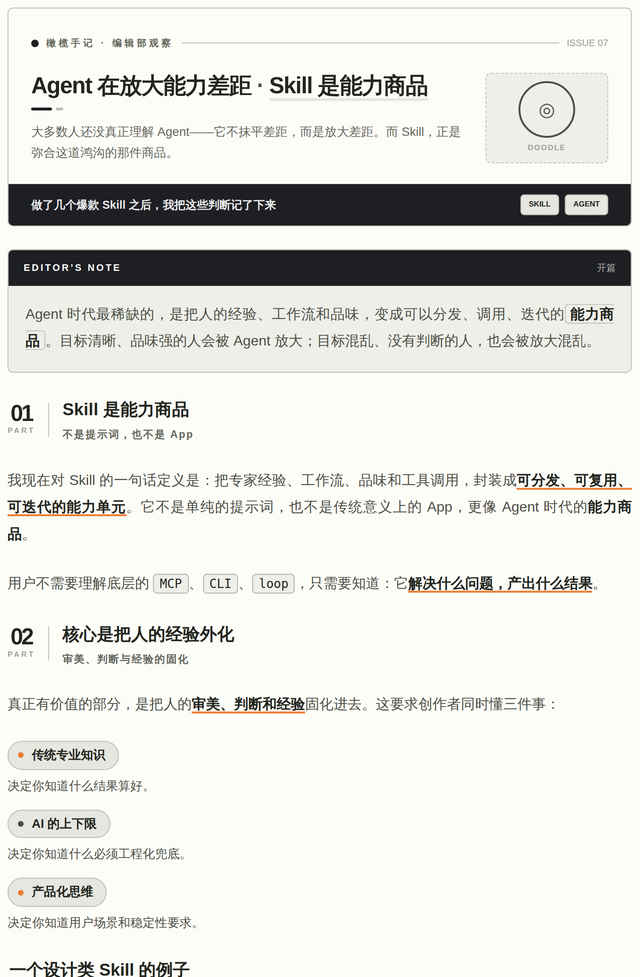
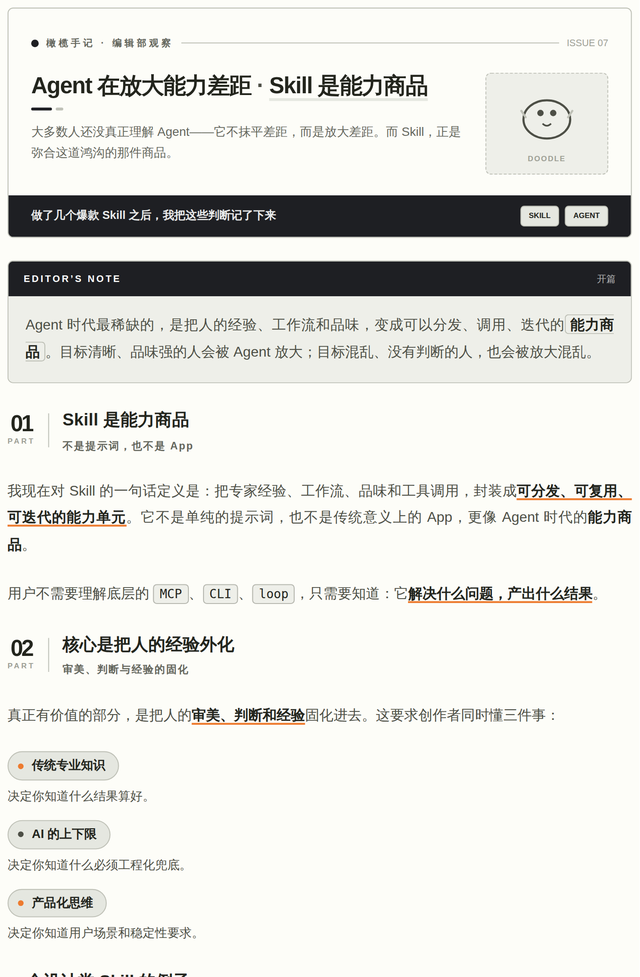
sync: gzh-skill-kit 自动镜像 cc296e8

Changed region(s): [[0.0, 0.0921, 1.0, 1.0], [0.0, 0.6448, 0.0625, 0.6755]]

diff --git a/gzh-skill-kit/docs/gallery/olive-journal.html b/gzh-skill-kit/docs/gallery/olive-journal.html
@@ -20,7 +20,13 @@
           <p style="font-size:13px;color:#65675e;margin:0;line-height:1.7;"><span leaf="">大多数人还没真正理解 Agent——它不抹平差距，而是放大差距。而 Skill，正是弥合这道鸿沟的那件商品。</span></p>
         </section>
         <section style="flex-shrink:0;width:112px;display:flex;flex-direction:column;align-items:center;justify-content:center;background:#eeefe9;border:1px dashed #bfc1b7;border-radius:6px;padding:8px;">
-          <section style="width:56px;height:56px;border:2px solid #4d4f46;border-radius:50%;margin:0 auto;display:flex;align-items:center;justify-content:center;"><span style="font-size:20px;line-height:1;color:#4d4f46;"><span leaf="">◎</span></span></section>
+          <svg width="72" height="72" viewBox="0 0 64 64" aria-hidden="true" style="display:block;">
+            <ellipse cx="32" cy="36" rx="22" ry="18" fill="none" stroke="#4d4f46" stroke-width="2"></ellipse>
+            <circle cx="26" cy="30" r="3" fill="#4d4f46"></circle>
+            <circle cx="38" cy="30" r="3" fill="#4d4f46"></circle>
+            <path d="M28 40 Q32 44 36 40" fill="none" stroke="#4d4f46" stroke-width="1.5"></path>
+            <path d="M12 34 L8 28 M52 34 L56 28" stroke="#bfc1b7" stroke-width="2" stroke-linecap="round"></path>
+          </svg>
           <span style="font-size:8px;font-weight:700;color:#9ea096;letter-spacing:1px;margin-top:4px;"><span leaf="">DOODLE</span></span>
         </section>
       </section>
@@ -280,19 +286,19 @@
       <section style="display:flex;justify-content:center;gap:18px;margin-bottom:14px;flex-wrap:wrap;">
         <section style="text-align:center;color:#4d4f46;">
           <section style="width:40px;height:40px;display:flex;align-items:center;justify-content:center;margin:0 auto 6px;background:#eeefe9;border-radius:6px;border:1px solid #bfc1b7;">
-            <span style="font-size:18px;line-height:1;"><span leaf="">👍</span></span>
+            <svg width="20" height="20" viewBox="0 0 24 24" fill="none" stroke="currentColor" stroke-width="1.8" aria-hidden="true"><path d="M14 9V5a3 3 0 0 0-3-3l-4 9v11h11.28a2 2 0 0 0 2-1.7l1.38-9a2 2 0 0 0-2-2.3zM7 22H4a2 2 0 0 1-2-2v-7a2 2 0 0 1 2-2h3"></path></svg>
           </section>
           <span style="font-size:11px;font-weight:600;"><span leaf="">赞</span></span>
         </section>
         <section style="text-align:center;color:#4d4f46;">
           <section style="width:40px;height:40px;display:flex;align-items:center;justify-content:center;margin:0 auto 6px;background:#eeefe9;border-radius:6px;border:1px solid #bfc1b7;">
-            <span style="font-size:18px;line-height:1;"><span leaf="">↗</span></span>
+            <svg width="20" height="20" viewBox="0 0 24 24" fill="none" stroke="currentColor" stroke-width="1.8" aria-hidden="true"><path d="M4 18v-4a8 8 0 0 1 8-8h8"></path><polyline points="16 2 20 6 16 10"></polyline></svg>
           </section>
           <span style="font-size:11px;font-weight:600;"><span leaf="">转发</span></span>
         </section>
         <section style="text-align:center;color:#23251d;">
           <section style="width:40px;height:40px;display:flex;align-items:center;justify-content:center;margin:0 auto 6px;background:#d4c9b8;border-radius:6px;border:1px solid #b17816;">
-            <span style="font-size:18px;line-height:1;"><span leaf="">★</span></span>
+            <svg width="20" height="20" viewBox="0 0 24 24" fill="none" stroke="#23251d" stroke-width="1.8" aria-hidden="true"><polygon points="12 2 15.09 8.26 22 9.27 17 14.14 18.18 21.02 12 17.77 5.82 21.02 7 14.14 2 9.27 8.91 8.26 12 2"></polygon></svg>
           </section>
           <span style="font-size:11px;font-weight:700;"><span leaf="">推荐</span></span>
         </section>

diff --git a/gzh-skill-kit/docs/gallery/moyu-green.html b/gzh-skill-kit/docs/gallery/moyu-green.html
@@ -268,19 +268,19 @@
       <section style="display:flex;justify-content:center;gap:24px;margin-bottom:16px;">
         <section style="text-align:center;cursor:pointer;color:#4B5563;">
           <section style="width:40px;height:40px;display:flex;align-items:center;justify-content:center;margin:0 auto 6px;background:#fff;border-radius:12px;box-shadow:0 2px 4px rgba(0,0,0,0.05);border:1px solid #F3F4F6;">
-            <span style="font-size:18px;line-height:1;"><span leaf="">👍</span></span>
+            <svg width="20" height="20" viewBox="0 0 24 24" fill="none" stroke="currentColor" stroke-width="1.8"><path d="M14 9V5a3 3 0 0 0-3-3l-4 9v11h11.28a2 2 0 0 0 2-1.7l1.38-9a2 2 0 0 0-2-2.3zM7 22H4a2 2 0 0 1-2-2v-7a2 2 0 0 1 2-2h3"></path></svg>
           </section>
           <span style="font-size:10px;font-weight:600;"><span leaf="">点赞</span></span>
         </section>
         <section style="text-align:center;cursor:pointer;color:#4B5563;">
           <section style="width:40px;height:40px;display:flex;align-items:center;justify-content:center;margin:0 auto 6px;background:#fff;border-radius:12px;box-shadow:0 2px 4px rgba(0,0,0,0.05);border:1px solid #F3F4F6;">
-            <span style="font-size:18px;line-height:1;"><span leaf="">↗</span></span>
+            <svg width="20" height="20" viewBox="0 0 24 24" fill="none" stroke="currentColor" stroke-width="1.8" stroke-linecap="round" stroke-linejoin="round"><path d="M4 18v-4a8 8 0 0 1 8-8h8"></path><polyline points="16 2 20 6 16 10"></polyline></svg>
           </section>
           <span style="font-size:10px;font-weight:600;"><span leaf="">转发</span></span>
         </section>
         <section style="text-align:center;cursor:pointer;color:#059669;">
           <section style="width:40px;height:40px;display:flex;align-items:center;justify-content:center;margin:0 auto 6px;background:#ECFDF5;border-radius:12px;box-shadow:0 2px 4px rgba(5,150,105,0.15);border:1px solid #A7F3D0;">
-            <span style="font-size:18px;line-height:1;"><span leaf="">★</span></span>
+            <svg width="20" height="20" viewBox="0 0 24 24" fill="none" stroke="currentColor" stroke-width="1.8"><polygon points="12 2 15.09 8.26 22 9.27 17 14.14 18.18 21.02 12 17.77 5.82 21.02 7 14.14 2 9.27 8.91 8.26 12 2"></polygon></svg>
           </section>
           <span style="font-size:10px;font-weight:600;"><span leaf="">推荐</span></span>
         </section>

diff --git a/gzh-skill-kit/docs/gallery/tech-cobalt.html b/gzh-skill-kit/docs/gallery/tech-cobalt.html
@@ -268,19 +268,19 @@
       <section style="display:flex;justify-content:center;gap:24px;margin-bottom:16px;">
         <section style="text-align:center;cursor:pointer;color:#4B5563;">
           <section style="width:40px;height:40px;display:flex;align-items:center;justify-content:center;margin:0 auto 6px;background:#fff;border-radius:12px;box-shadow:0 2px 4px rgba(0,0,0,0.05);border:1px solid #F3F4F6;">
-            <span style="font-size:18px;line-height:1;"><span leaf="">👍</span></span>
+            <svg width="20" height="20" viewBox="0 0 24 24" fill="none" stroke="currentColor" stroke-width="1.8"><path d="M14 9V5a3 3 0 0 0-3-3l-4 9v11h11.28a2 2 0 0 0 2-1.7l1.38-9a2 2 0 0 0-2-2.3zM7 22H4a2 2 0 0 1-2-2v-7a2 2 0 0 1 2-2h3"></path></svg>
           </section>
           <span style="font-size:10px;font-weight:600;"><span leaf="">点赞</span></span>
         </section>
         <section style="text-align:center;cursor:pointer;color:#4B5563;">
           <section style="width:40px;height:40px;display:flex;align-items:center;justify-content:center;margin:0 auto 6px;background:#fff;border-radius:12px;box-shadow:0 2px 4px rgba(0,0,0,0.05);border:1px solid #F3F4F6;">
-            <span style="font-size:18px;line-height:1;"><span leaf="">↗</span></span>
+            <svg width="20" height="20" viewBox="0 0 24 24" fill="none" stroke="currentColor" stroke-width="1.8" stroke-linecap="round" stroke-linejoin="round"><path d="M4 18v-4a8 8 0 0 1 8-8h8"></path><polyline points="16 2 20 6 16 10"></polyline></svg>
           </section>
           <span style="font-size:10px;font-weight:600;"><span leaf="">转发</span></span>
         </section>
         <section style="text-align:center;cursor:pointer;color:#1D4ED8;">
           <section style="width:40px;height:40px;display:flex;align-items:center;justify-content:center;margin:0 auto 6px;background:#EFF6FF;border-radius:12px;box-shadow:0 2px 4px rgba(29,78,216,0.15);border:1px solid #93C5FD;">
-            <span style="font-size:18px;line-height:1;"><span leaf="">★</span></span>
+            <svg width="20" height="20" viewBox="0 0 24 24" fill="none" stroke="currentColor" stroke-width="1.8"><polygon points="12 2 15.09 8.26 22 9.27 17 14.14 18.18 21.02 12 17.77 5.82 21.02 7 14.14 2 9.27 8.91 8.26 12 2"></polygon></svg>
           </section>
           <span style="font-size:10px;font-weight:600;"><span leaf="">推荐</span></span>
         </section>

diff --git a/gzh-skill-kit/docs/gallery/moyu-ticket.html b/gzh-skill-kit/docs/gallery/moyu-ticket.html
@@ -244,19 +244,19 @@
       <section style="display:flex;justify-content:center;gap:24px;margin-bottom:16px;">
         <section style="text-align:center;color:#555;">
           <section style="width:40px;height:40px;display:flex;align-items:center;justify-content:center;margin:0 auto 6px;background:#fff;border:1px solid #1a1a1a;">
-            <span style="font-size:18px;line-height:1;"><span leaf="">👍</span></span>
+            <svg width="18" height="18" viewBox="0 0 24 24" fill="none" stroke="currentColor" stroke-width="1.8"><path d="M14 9V5a3 3 0 0 0-3-3l-4 9v11h11.28a2 2 0 0 0 2-1.7l1.38-9a2 2 0 0 0-2-2.3zM7 22H4a2 2 0 0 1-2-2v-7a2 2 0 0 1 2-2h3"></path></svg>
           </section>
           <span style="font-size:10px;font-weight:600;"><span leaf="">点赞</span></span>
         </section>
         <section style="text-align:center;color:#555;">
           <section style="width:40px;height:40px;display:flex;align-items:center;justify-content:center;margin:0 auto 6px;background:#fff;border:1px solid #1a1a1a;">
-            <span style="font-size:18px;line-height:1;"><span leaf="">↗</span></span>
+            <svg width="18" height="18" viewBox="0 0 24 24" fill="none" stroke="currentColor" stroke-width="1.8"><path d="M4 18v-4a8 8 0 0 1 8-8h8"></path><polyline points="16 2 20 6 16 10"></polyline></svg>
           </section>
           <span style="font-size:10px;font-weight:600;"><span leaf="">转发</span></span>
         </section>
         <section style="text-align:center;color:#059669;">
           <section style="width:40px;height:40px;display:flex;align-items:center;justify-content:center;margin:0 auto 6px;background:#F0FDF4;border:2px solid #059669;">
-            <span style="font-size:18px;line-height:1;"><span leaf="">★</span></span>
+            <svg width="18" height="18" viewBox="0 0 24 24" fill="none" stroke="currentColor" stroke-width="1.8"><polygon points="12 2 15.09 8.26 22 9.27 17 14.14 18.18 21.02 12 17.77 5.82 21.02 7 14.14 2 9.27 8.91 8.26 12 2"></polygon></svg>
           </section>
           <span style="font-size:10px;font-weight:600;"><span leaf="">推荐</span></span>
         </section>

diff --git a/gzh-skill-kit/scripts/component_lint.py b/gzh-skill-kit/scripts/component_lint.py
@@ -69,10 +69,18 @@ def lint_file(path):
     blocks = ([text] if path.lower().endswith(".html")
               else [m.group(1) for m in re.finditer(r"```html\s*\n(.*?)```", text, re.S)])
 
+    # docs/gallery 预览产物豁免 SVG 检查：预览页只在浏览器渲染（不粘贴进公众号），
+    # SVG 图标观感更好。组件库（references/*.md）仍然严禁 SVG——正文必须用文本字形。
+    in_gallery = os.sep + "docs" + os.sep + "gallery" + os.sep in path
+    checks = [c for c in CHECKS
+              if not (in_gallery and c[1] == "ERROR" and "SVG" in c[2])]
+
     for html in blocks:
-        for rx, level, msg in CHECKS:
+        for rx, level, msg in checks:
             if rx.search(html):
                 add(level, msg)
+    if in_gallery and re.search(r"<svg\b", text, re.I):
+        add("WARN", "预览页含内联 SVG——浏览器预览正常，但正文引用此组件时请改用文本字形（微信会剥 SVG）")
         # 漏 <span leaf=""> 包裹：粘贴后样式整片丢失，是最高频致命错。
         # 用真正的 HTML 解析器找"裸露的文本节点"，而不是正则匹配——
         # 否则注释里的中文、属性里的中文都会被误判。
